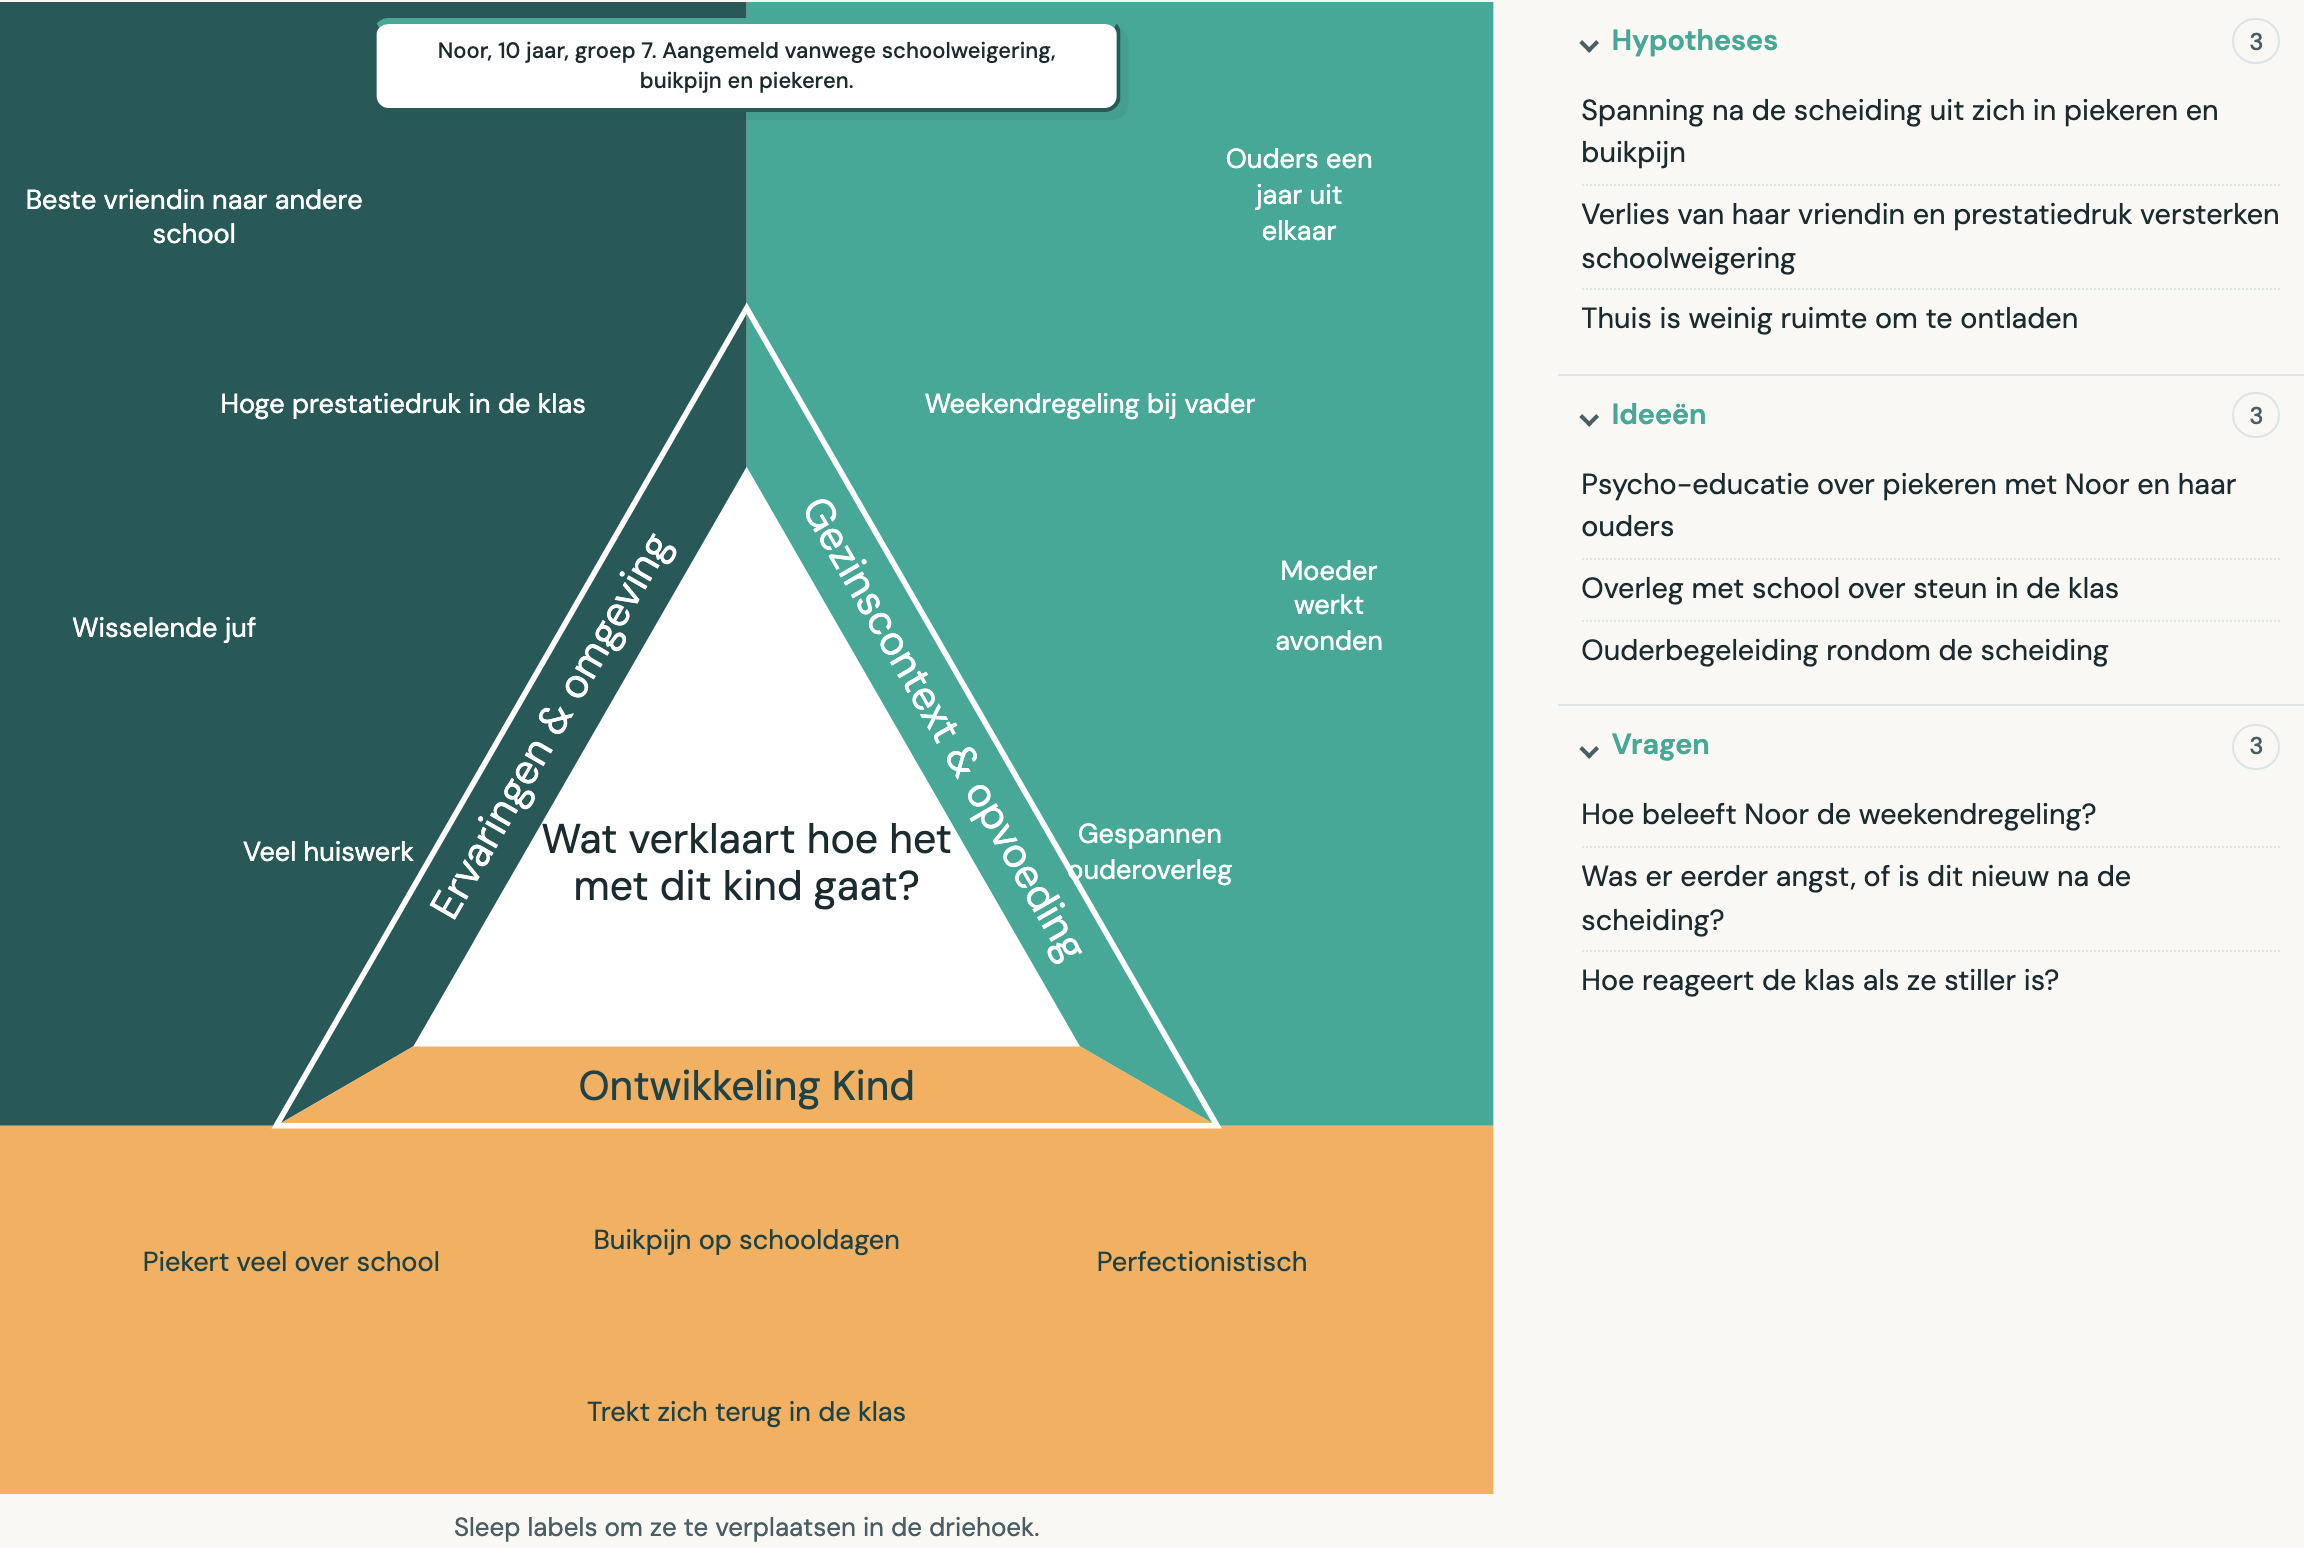
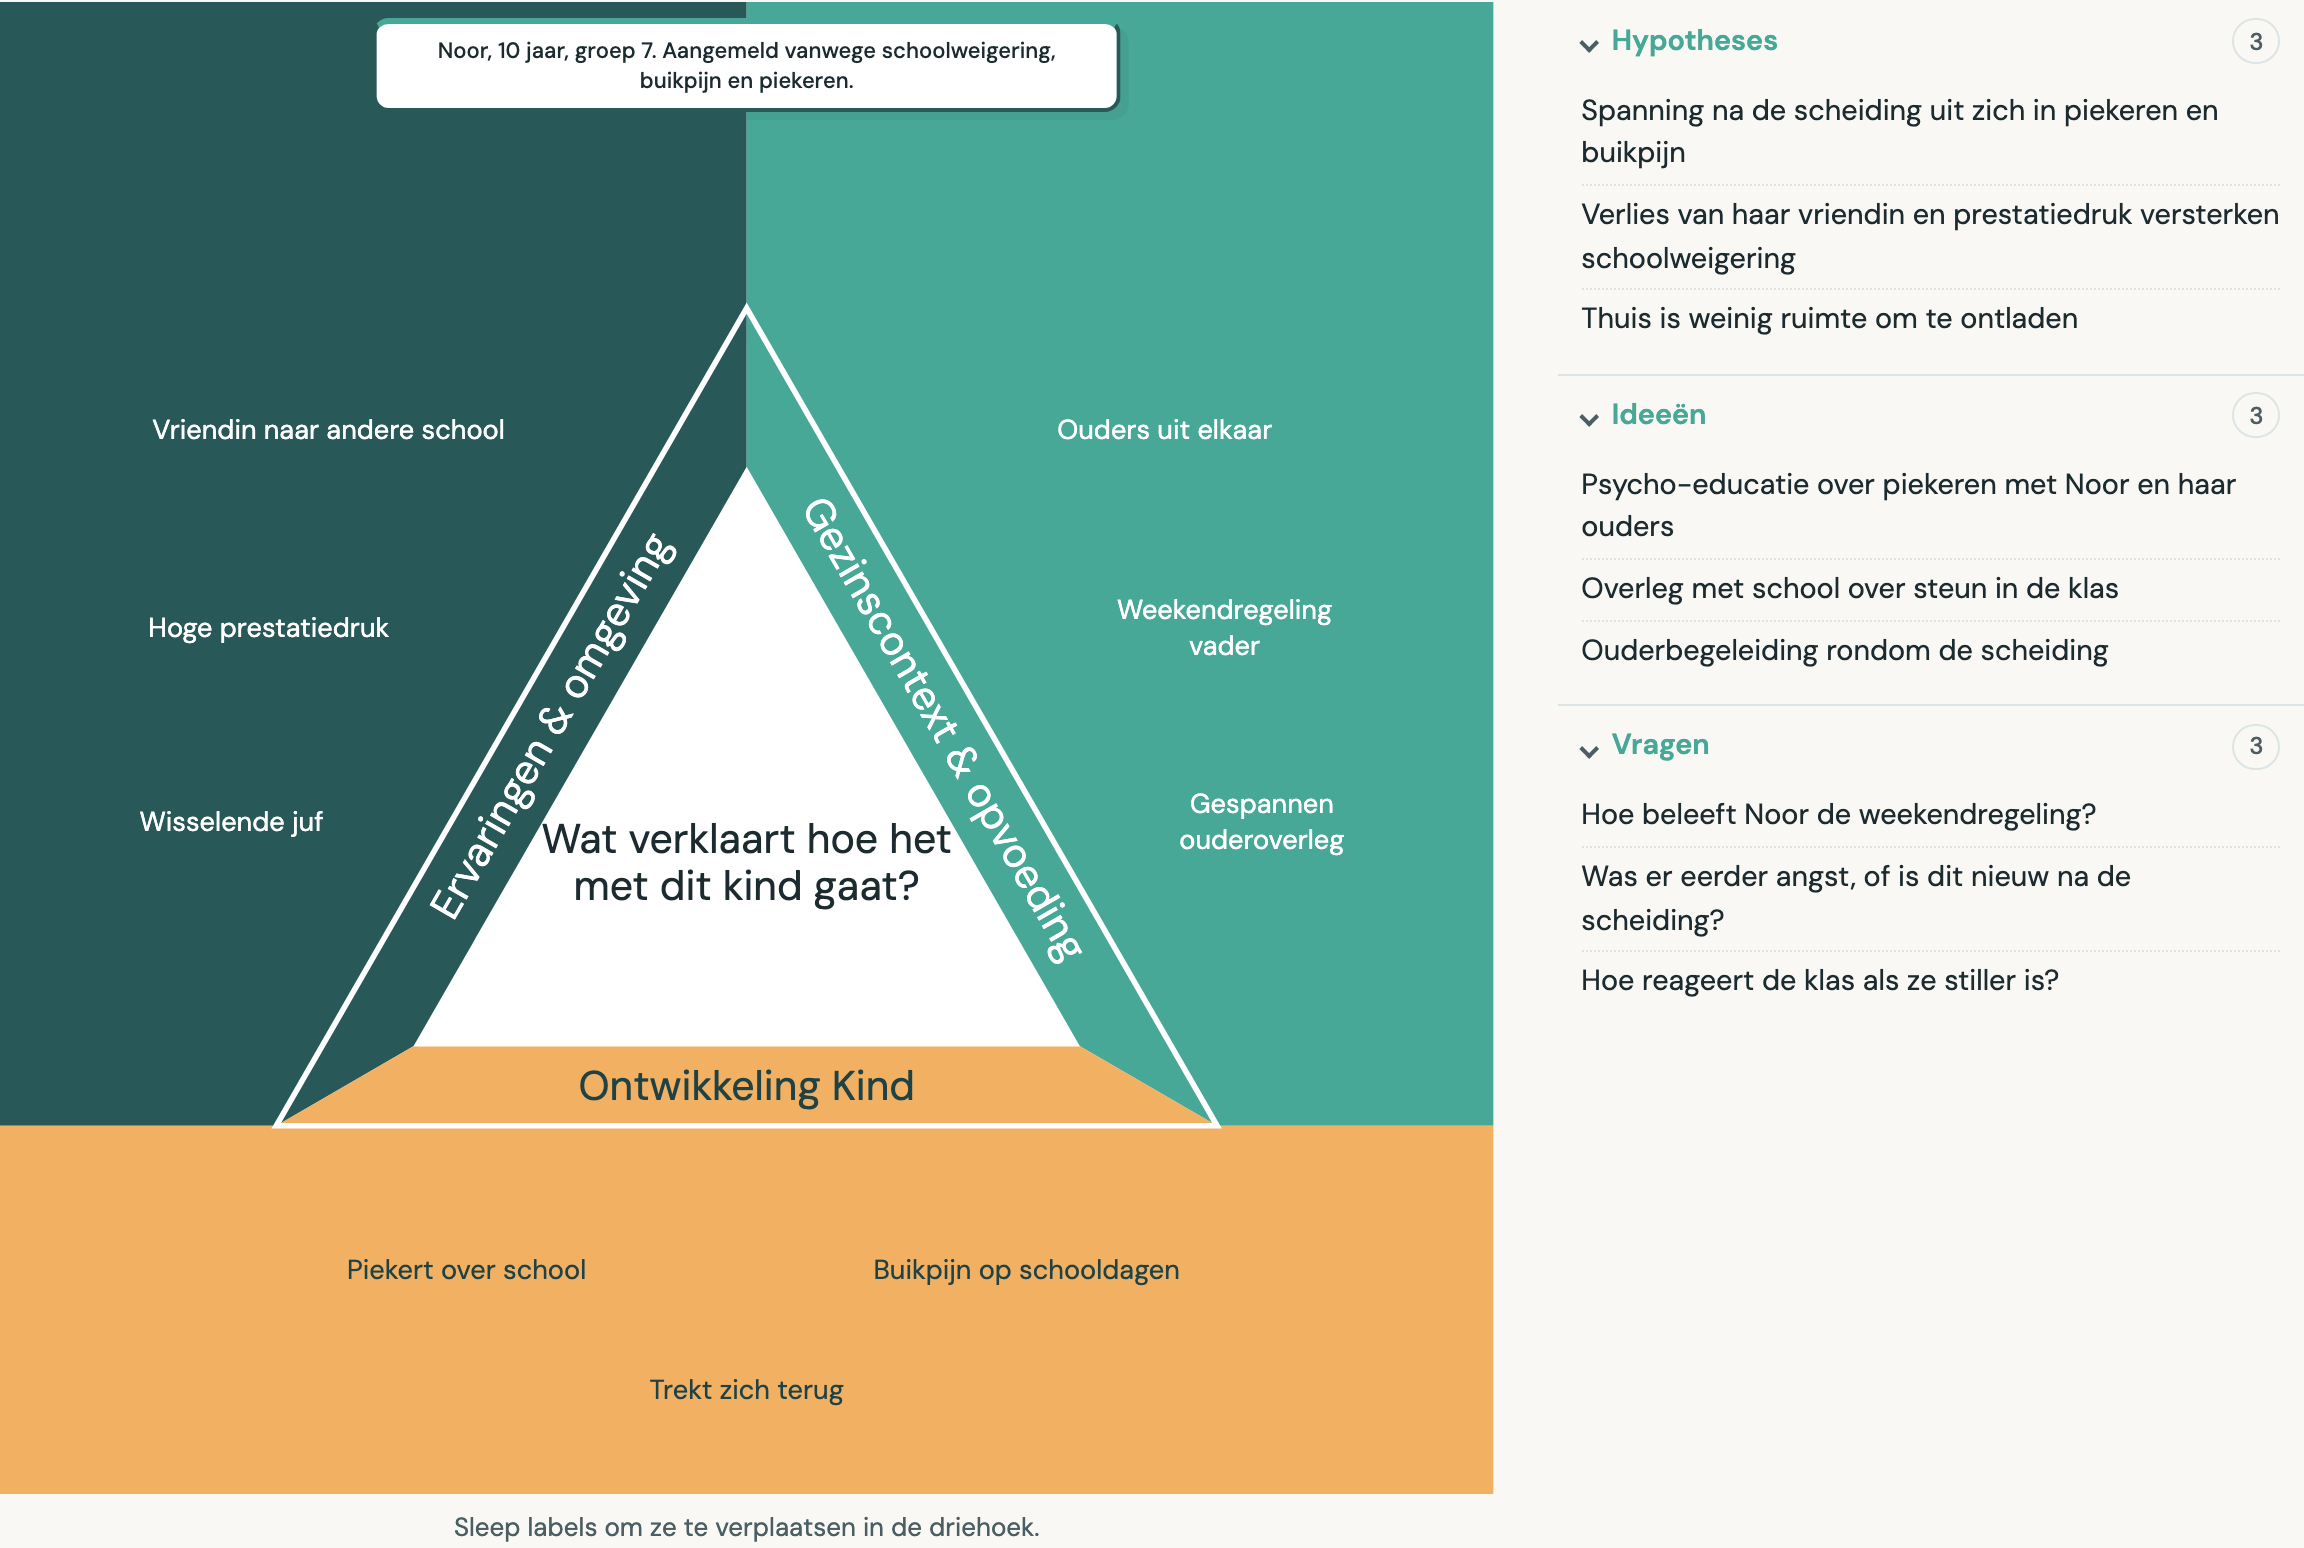
Zet de ingevulde casus in de Driehoekmodel-hero, zodat het overzicht de lege thumbnail houdt.

diff --git a/_layouts/tool.html b/_layouts/tool.html
@@ -25,18 +25,21 @@ layout: default
             <p class="tool-detail__lead">{{ page.lead }}</p>
           {% endif %}
         </div>
-        {% if page.image %}
+        {% assign preview_image = page.hero_image | default: page.image %}
+        {% assign preview_caption = page.hero_image_caption | default: page.image_caption %}
+        {% assign preview_alt = page.hero_alt | default: page.alt %}
+        {% if preview_image %}
           <figure class="tool-detail__preview">
             <button type="button"
                     class="tool-detail__thumb"
-                    data-lightbox-src="{{ page.image | relative_url }}"
-                    data-lightbox-caption="{{ page.image_caption | default: page.name }}"
+                    data-lightbox-src="{{ preview_image | relative_url }}"
+                    data-lightbox-caption="{{ preview_caption | default: page.name }}"
                     aria-label="Screenshot {{ page.name }} vergroten">
-              {% include browser-frame.html slug=page.portal_slug image=page.image alt=page.alt loading="eager" width=960 height=540 variant="elevated" %}
+              {% include browser-frame.html slug=page.portal_slug image=preview_image alt=preview_alt loading="eager" width=960 height=540 variant="elevated" %}
               <span class="tool-detail__expand" aria-hidden="true">Vergroten</span>
             </button>
-            {% if page.image_caption %}
-              <figcaption>{{ page.image_caption }}</figcaption>
+            {% if preview_caption %}
+              <figcaption>{{ preview_caption }}</figcaption>
             {% endif %}
           </figure>
         {% endif %}

diff --git a/_sass/_components.scss b/_sass/_components.scss
@@ -1437,11 +1437,6 @@
   text-align: center;
 }
 
-.tool-detail__prose .tool-detail__preview--inline {
-  margin: $space-md 0 0;
-  max-width: 48rem;
-}
-
 .tool-detail__content {
   min-width: 0;
 }

diff --git a/_tools/context-driehoek.md b/_tools/context-driehoek.md
@@ -11,6 +11,9 @@ summary: Van informatie naar inzicht
 image: /assets/images/tools/context-driehoek.png
 image_caption: Leeg driehoekmodel klaar om in te vullen
 alt: Screenshot van het lege Driehoekmodel met de drie secties gezin, kind en omgeving
+hero_image: /assets/images/tools/context-driehoek-casus.png
+hero_image_caption: Fictief voorbeeld: Noor, 10 jaar, schoolweigering en piekeren
+hero_alt: Screenshot van een ingevuld Driehoekmodel met factoren bij kind, gezin en omgeving, plus hypotheses, ideeën en vragen
 available: true
 portal_slug: context-driehoek
 uses_title: Waarvoor kun je deze tool gebruiken?
@@ -22,6 +25,43 @@ uses:
   - Opstellen van een verklarende analyses en/of integratief beeld
   - Het bespreken van een verklarende analyse en/of integratief beeld met een cliëntsysteem
   - Onderwijs en supervisie binnen psychologie en orthopedagogiek
+faq:
+  - question: Is het driehoekmodel een diagnostisch instrument?
+    answer: >-
+      Nee. Het is een ordeningshulpmiddel. Je zet informatie, hypotheses, vragen en ideeën naast elkaar, zodat je sneller tot een gedeeld beeld komt. Het vervangt geen klinische beoordeling, verklarende analyse of behandelbeslissing.
+  - question: Voor wie is de tool bedoeld?
+    answer: >-
+      Voor professionals die werken met kinderen, jongeren en gezinnen: intake, diagnostiek, behandeling, MDO of supervisie. Je kunt het alleen invullen, of samen met collega’s, ouders of het cliëntsysteem. De tool sluit aan bij hoe veel mensen in de jeugd-GGZ al kijken: kind, gezin en omgeving.
+  - question: Wat betekenen de drie hoeken?
+    answer: >-
+      Elke hoek verzamelt een ander type factor. Ontwikkeling kind gaat over het kind zelf. Gezinscontext & opvoeding over het gezin en de opvoeding. Ervaringen & omgeving over eerdere ervaringen en de bredere context. In het midden staat de vraag: wat verklaart hoe het met dit kind gaat?
+  - question: Wat is het verschil tussen factoren, hypotheses, vragen en ideeën?
+    answer: >-
+      Factoren zijn wat je al weet of observeert, en die plaats je in de driehoek. Hypotheses zijn hoe die factoren volgens jou samenhangen. Vragen markeren wat nog onduidelijk is. Ideeën zijn mogelijke vervolgstappen voor onderzoek of behandeling. Zo blijft zichtbaar wat bekend is en wat nog openstaat.
+  - question: Kan ik het samen met ouders of cliënten gebruiken?
+    answer: >-
+      Ja. Je kunt secties in- en uitklappen, zodat je zelf bepaalt wat anderen zien. In een gesprek met ouders of het cliëntsysteem kun je bijvoorbeeld alleen de driehoek tonen, en hypotheses of ideeën even dichtklappen. Zo blijft het overzichtelijk zonder dat alles tegelijk in beeld hoeft.
+  - question: Worden cliëntgegevens naar een server gestuurd?
+    answer: >-
+      Nee. De tool draait in je browser, vergelijkbaar met een Word- of Excel-bestand op je eigen computer. Gegevens gaan niet automatisch naar een server en zijn niet zichtbaar voor andere gebruikers. Jij bepaalt of en hoe je iets opslaat. Zorgvuldig omgaan met cliëntgegevens blijft jouw verantwoordelijkheid, binnen de afspraken van je organisatie.
+  - question: Wat is gratis en wat zit in de betaalde versie?
+    answer: >-
+      Invullen en gebruiken kan gratis. Opslaan, een eerder bestand openen en exporteren naar PDF zitten in de betaalde versie (€7,99 per jaar). Zo kun je het model eerst uitproberen voordat je een casus bewaart of deelt.
+  - question: Hoe sla ik een casus op?
+    answer: >-
+      In de betaalde versie sla je het model op als .jari-bestand op je eigen computer of in de map die jouw organisatie daarvoor gebruikt. Later open je dat bestand weer in de tool. Er is geen automatische cloudopslag: het bestand gaat mee zoals een document dat je zelf bewaart.
+  - question: Heb ik training of een specifieke methodiek nodig?
+    answer: >-
+      Nee. Er zit geen vast protocol achter. De tool volgt de manier waarop veel professionals al denken: eerst ordenen, dan verbanden leggen, dan vragen en ideeën. Handig als je wilt structureren, niet als je een nieuwe methodiek moet leren.
+  - question: Kan ik het gebruiken in een MDO of casuïstiekbespreking?
+    answer: >-
+      Ja. Dat is een van de bedoelde toepassingen. Als de driehoek al is ingevuld, hoef je minder tijd te steken in het toelichten van de casus. De overlegtijd kan naar wat ontbreekt, welke hypotheses het meest waarschijnlijk zijn en wat de volgende stap is.
+  - question: Wat betekent de plek van een label in de driehoek?
+    answer: >-
+      Je sleept labels naar de plek die voor jou klopt. Dichter bij een andere hoek kan betekenen dat een factor twee kanten raakt, bijvoorbeeld zowel kind als gezin. De plek is geen score: het is een visuele manier om samenhang zichtbaar te maken.
+  - question: Kan ik het model printen of als PDF delen?
+    answer: >-
+      Ja, in de betaalde versie. Exporteer PDF opent het afdrukvenster van je browser, zodat je een A4-overzicht kunt printen of als PDF bewaren. Handig voor een dossier, een overleg of om het beeld met collega’s te delen.
 ---
 
 <div class="tool-detail__hero-body">
@@ -37,24 +77,6 @@ De tool is ontwikkeld voor professionals die werken met kinderen, jongeren en ge
 
 </div>
 </div>
-
-<div class="section__header">
-  <h2>Voorbeeld van een ingevulde casus</h2>
-</div>
-
-<p>Hieronder zie je een fictief voorbeeld. Factoren bij Noor, haar gezin en haar omgeving staan bij elkaar, met hypotheses, ideeën en vragen ernaast. Zo ontstaat in één oogopslag een gedeeld beeld van de casus.</p>
-
-<figure class="tool-detail__preview tool-detail__preview--inline">
-  <button type="button"
-          class="tool-detail__thumb"
-          data-lightbox-src="{{ '/assets/images/tools/context-driehoek-casus.png' | relative_url }}"
-          data-lightbox-caption="Fictief voorbeeld: Noor, 10 jaar, aangemeld vanwege schoolweigering en piekeren"
-          aria-label="Screenshot van een ingevuld Driehoekmodel vergroten">
-    {% include browser-frame.html slug="context-driehoek" image="/assets/images/tools/context-driehoek-casus.png" alt="Screenshot van een ingevuld Driehoekmodel met factoren bij kind, gezin en omgeving, plus hypotheses, ideeën en vragen" loading="lazy" width=960 height=540 variant="elevated" %}
-    <span class="tool-detail__expand" aria-hidden="true">Vergroten</span>
-  </button>
-  <figcaption>Fictief voorbeeld: Noor, 10 jaar, aangemeld vanwege schoolweigering en piekeren.</figcaption>
-</figure>
 
 <div class="section__header">
   <h2>Wat maakt deze tool bijzonder?</h2>
